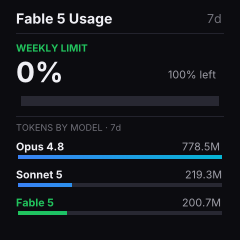
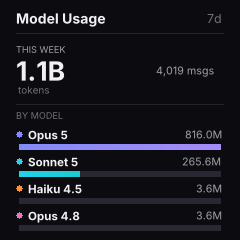
feat(usage): redesign Model Usage as a token-volume leaderboard
Replace the Fable-centric usage screen (which rendered near-empty when
Fable wasn't in use) with a durable, log-scan-driven view: this week's
total token volume as the headline, then the top models ranked by usage
with per-model colored bars. No API/token dependency. Re-add it to the
default rotation.

diff --git a/src/usage.rs b/src/usage.rs
@@ -1,7 +1,7 @@
-//! Model usage screen. The Claude usage API doesn't break out per-model figures
-//! (and Fable has no rate-limit window), so this scans the local Claude Code
-//! session logs (`~/.claude/projects/**/*.jsonl`) and sums tokens per model over
-//! a rolling window — the same data the cost tooling reads. Fable 5 is featured.
+//! Model Usage screen. The Claude usage API doesn't break usage down per model,
+//! so this scans the local Claude Code session logs (`~/.claude/projects/**/*.jsonl`)
+//! and sums tokens per model over a rolling window — the same data the cost
+//! tooling reads. Shows this week's total plus the top models by volume.
 
 use std::collections::HashSet;
 use std::env;
@@ -9,12 +9,20 @@ use std::fs;
 use std::path::PathBuf;
 
 use chrono::{DateTime, Duration, Utc};
-use image::RgbaImage;
+use image::{Rgba, RgbaImage};
 use serde::Deserialize;
 
 use crate::draw;
 
 const WINDOW_DAYS: i64 = 7;
+
+/// Distinct gradient per rank so each model bar reads as its own series.
+const PALETTE: &[(Rgba<u8>, Rgba<u8>)] = &[
+    (Rgba([129, 140, 248, 255]), Rgba([167, 139, 250, 255])), // indigo → violet
+    (Rgba([34, 211, 238, 255]), Rgba([16, 185, 129, 255])),   // cyan → emerald
+    (Rgba([251, 146, 60, 255]), Rgba([250, 204, 21, 255])),    // orange → amber
+    (Rgba([244, 114, 182, 255]), Rgba([232, 121, 249, 255])),  // pink → fuchsia
+];
 
 #[derive(Deserialize)]
 struct Entry {
@@ -42,6 +50,7 @@ struct Usage {
 struct ModelUsage {
     model: String,
     tokens: u64,
+    messages: u64,
 }
 
 fn scan_dirs() -> Vec<PathBuf> {
@@ -77,7 +86,8 @@ fn collect_jsonl(dir: &PathBuf, cutoff: DateTime<Utc>, out: &mut Vec<PathBuf>) {
     }
 }
 
-/// Sum tokens per model over the last `WINDOW_DAYS`. Returns (models desc, total).
+/// Sum tokens/messages per model over the last `WINDOW_DAYS`. Returns (models
+/// sorted by tokens desc, total tokens).
 fn gather() -> (Vec<ModelUsage>, u64) {
     let cutoff = Utc::now() - Duration::days(WINDOW_DAYS);
 
@@ -89,7 +99,7 @@ fn gather() -> (Vec<ModelUsage>, u64) {
     }
 
     use std::collections::HashMap;
-    let mut totals: HashMap<String, u64> = HashMap::new(); // model -> tokens
+    let mut totals: HashMap<String, (u64, u64)> = HashMap::new(); // model -> (tokens, msgs)
     let mut seen_ids: HashSet<String> = HashSet::new();
 
     for path in files {
@@ -127,20 +137,26 @@ fn gather() -> (Vec<ModelUsage>, u64) {
                 + usage.output_tokens.unwrap_or(0)
                 + usage.cache_creation_input_tokens.unwrap_or(0)
                 + usage.cache_read_input_tokens.unwrap_or(0);
-            *totals.entry(model).or_insert(0) += tokens;
+            let e = totals.entry(model).or_insert((0, 0));
+            e.0 += tokens;
+            e.1 += 1;
         }
     }
 
-    let total: u64 = totals.values().sum();
+    let total: u64 = totals.values().map(|(t, _)| *t).sum();
     let mut models: Vec<ModelUsage> = totals
         .into_iter()
-        .map(|(model, tokens)| ModelUsage { model, tokens })
+        .map(|(model, (tokens, messages))| ModelUsage {
+            model,
+            tokens,
+            messages,
+        })
         .collect();
     models.sort_by(|a, b| b.tokens.cmp(&a.tokens));
     (models, total)
 }
 
-/// Map a raw model id to a short display name.
+/// Map a raw model id to a short display name, e.g. claude-opus-4-8 -> "Opus 4.8".
 fn friendly(model: &str) -> String {
     let m = model.to_lowercase();
     let family = if m.contains("fable") {
@@ -154,7 +170,6 @@ fn friendly(model: &str) -> String {
     } else {
         return model.to_string();
     };
-    // Pull the first "N-M" or "N" version chunk, e.g. claude-opus-4-8 -> 4.8.
     let ver: Vec<&str> = m
         .split('-')
         .skip_while(|p| !p.chars().next().map(|c| c.is_ascii_digit()).unwrap_or(false))
@@ -190,26 +205,18 @@ pub fn format_tokens(n: u64) -> String {
     }
 }
 
-fn format_reset(minutes: f64) -> String {
-    let total = minutes.max(0.0).round() as u64;
-    let days = total / 1440;
-    let hours = (total % 1440) / 60;
-    if days > 0 {
-        format!("resets {days}d {hours}h")
-    } else if hours > 0 {
-        format!("resets {hours}h")
-    } else {
-        format!("resets {}m", total % 60)
+/// Group digits with commas, e.g. 5216 -> "5,216".
+fn thousands(n: u64) -> String {
+    let s = n.to_string();
+    let bytes = s.as_bytes();
+    let mut out = String::new();
+    for (i, c) in bytes.iter().enumerate() {
+        if i > 0 && (bytes.len() - i) % 3 == 0 {
+            out.push(',');
+        }
+        out.push(*c as char);
     }
-}
-
-/// (left, right) bar colors for a rate-limit gauge (low = good).
-fn level_colors(level: &str) -> (image::Rgba<u8>, image::Rgba<u8>) {
-    match level {
-        "danger" | "over" => (draw::DANGER, draw::DANGER),
-        "warn" => (draw::WARN_LEFT, draw::WARN_RIGHT),
-        _ => (draw::OK_LEFT, draw::OK_RIGHT),
-    }
+    out
 }
 
 pub fn render_screen() -> RgbaImage {
@@ -217,58 +224,48 @@ pub fn render_screen() -> RgbaImage {
     let font_bold = draw::font_bold();
     let mut img = draw::new_canvas();
 
-    draw::draw_header(&mut img, &font, &font_bold, "Fable 5 Usage", &format!("{WINDOW_DAYS}d"));
+    draw::draw_header(&mut img, &font, &font_bold, "Model Usage", &format!("{WINDOW_DAYS}d"));
 
     let mx = 16i32;
     let right_edge = draw::W as i32 - mx;
     let bar_w = (right_edge - mx) as u32;
 
-    // Weekly rate-limit gauge for Fable, straight from the API.
-    let fable_weekly = crate::stats::fetch_stats()
-        .ok()
-        .and_then(|d| d.scoped.into_iter().find(|s| s.model.to_lowercase().contains("fable")));
-
-    // ── Hero: Fable weekly limit ──
-    draw::draw_text(&mut img, draw::GOOD_LEFT, mx, 42, 12.0, &font_bold, "WEEKLY LIMIT");
-    if let Some(fw) = &fable_weekly {
-        if let Some(mins) = fw.resets_in_minutes {
-            draw::draw_text_right(&mut img, draw::TEXT_MUTED, right_edge, 43, 12.0, &font, &format_reset(mins));
-        }
-        draw::draw_text(&mut img, draw::TEXT_PRIMARY, mx, 55, 34.0, &font_bold, &format!("{:.0}%", fw.utilization));
-        let remaining = (100.0 - fw.utilization).max(0.0);
-        draw::draw_text_right(&mut img, draw::TEXT_MUTED, right_edge, 68, 13.0, &font, &format!("{:.0}% left", remaining));
-        let (l, r) = level_colors(&fw.usage_level);
-        draw::draw_gradient_bar(&mut img, mx, 96, bar_w, 10, (fw.utilization / 100.0) as f32, l, r, 5);
-    } else {
-        draw::draw_text(&mut img, draw::TEXT_DIM, mx, 58, 15.0, &font, "No weekly Fable limit reported");
-    }
-
-    // ── Token volume by model (from local logs) ──
     let (models, total) = gather();
-    draw::draw_rounded_rect(&mut img, mx, 116, bar_w, 1, 0, draw::SEPARATOR);
-    draw::draw_text(&mut img, draw::TEXT_DIM, mx, 122, 11.0, &font, "TOKENS BY MODEL · 7d");
-
     if total == 0 {
-        draw::draw_text(&mut img, draw::TEXT_DIM, mx, 150, 13.0, &font, "No token usage in last 7 days");
+        draw::draw_text(&mut img, draw::TEXT_DIM, mx, 110, 15.0, &font, "No usage in last 7 days");
         return img;
     }
 
+    // ── Hero: total tokens this week ──
+    let msgs: u64 = models.iter().map(|m| m.messages).sum();
+    draw::draw_text(&mut img, draw::TEXT_MUTED, mx, 44, 11.0, &font, "THIS WEEK");
+    draw::draw_text(&mut img, draw::TEXT_PRIMARY, mx, 55, 32.0, &font_bold, &format_tokens(total));
+    draw::draw_text(&mut img, draw::TEXT_DIM, mx + 2, 84, 12.0, &font, "tokens");
+    draw::draw_text_right(
+        &mut img,
+        draw::TEXT_MUTED,
+        right_edge,
+        64,
+        13.0,
+        &font,
+        &format!("{} msgs", thousands(msgs)),
+    );
+
+    // ── Ranked model bars ──
+    draw::draw_rounded_rect(&mut img, mx, 104, bar_w, 1, 0, draw::SEPARATOR);
+    draw::draw_text(&mut img, draw::TEXT_DIM, mx, 110, 11.0, &font, "BY MODEL");
+
     let max_tokens = models.first().map(|m| m.tokens).unwrap_or(1).max(1);
-    let mut y = 140;
-    for m in models.iter().take(3) {
-        let is_fable = m.model.to_lowercase().contains("fable");
-        let name_color = if is_fable { draw::GOOD_LEFT } else { draw::TEXT_PRIMARY };
-        draw::draw_text(&mut img, name_color, mx, y, 13.0, &font_bold, &friendly(&m.model));
+    let mut y = 128;
+    for (i, m) in models.iter().take(4).enumerate() {
+        let (l, r) = PALETTE[i % PALETTE.len()];
+        draw::draw_circle(&mut img, mx + 3, y + 6, 3, l);
+        draw::draw_text(&mut img, draw::TEXT_PRIMARY, mx + 12, y, 14.0, &font_bold, &friendly(&m.model));
         draw::draw_text_right(&mut img, draw::TEXT_MUTED, right_edge, y, 13.0, &font, &format_tokens(m.tokens));
 
         let frac = m.tokens as f32 / max_tokens as f32;
-        let (l, r) = if is_fable {
-            (draw::GOOD_LEFT, draw::GOOD_RIGHT)
-        } else {
-            (draw::OK_LEFT, draw::OK_RIGHT)
-        };
-        draw::draw_gradient_bar(&mut img, mx, y + 15, bar_w, 4, frac, l, r, 2);
-        y += 28;
+        draw::draw_gradient_bar(&mut img, mx, y + 16, bar_w, 6, frac, l, r, 3);
+        y += 27;
     }
 
     img

diff --git a/src/rotate.rs b/src/rotate.rs
@@ -80,7 +80,7 @@ struct Args {
 }
 
 // "usage" is folded into "stats" now, but remains available on request.
-const DEFAULT_SCREENS: &[&str] = &["stats", "git", "sys", "ci"];
+const DEFAULT_SCREENS: &[&str] = &["stats", "git", "sys", "ci", "usage"];
 
 /// Render one screen by name. Returns (device filename, image). `None` means the
 /// screen has no data right now and should be skipped from the rotation.

diff --git a/README.md b/README.md
@@ -14,7 +14,7 @@ One command renders every enabled screen and pushes them to the device as an aut
 | ![Pull Requests](docs/screenshots/pr.png) | **Pull Requests** — open PRs you authored and PRs awaiting your review, each with a live CI status dot (green pass / red fail / gray no-checks). |
 | ![System Vitals](docs/screenshots/vitals.png) | **System Vitals** — CPU load, memory pressure, and battery, color-coded by severity, with uptime. |
 | ![CI Runners](docs/screenshots/ci.png) | **CI Runners** — self-hosted GitHub Actions runners running locally in Docker: online/busy/queued counts and the branches currently under test. |
-| ![Model Usage](docs/screenshots/usage.png) | **Model Usage** — Fable weekly-limit gauge plus token volume by model, scanned from your local Claude Code logs. |
+| ![Model Usage](docs/screenshots/usage.png) | **Model Usage** — this week's total token volume plus the top models ranked by usage (Opus, Sonnet, …), scanned from your local Claude Code logs. |
 
 *(The Pull Requests and CI Runners shots above use sample data via `--demo`.)*
 
